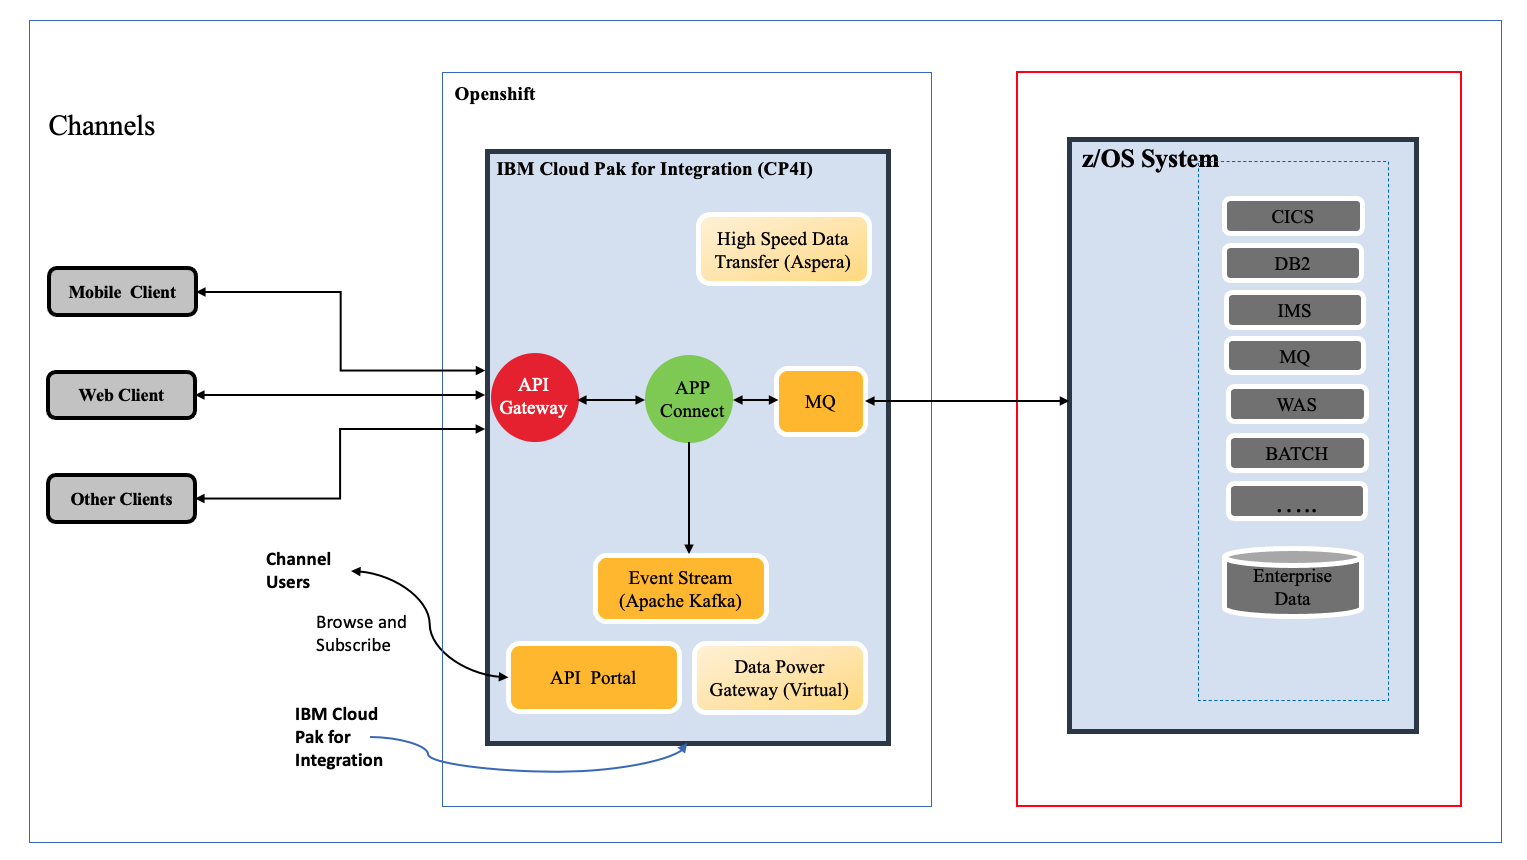
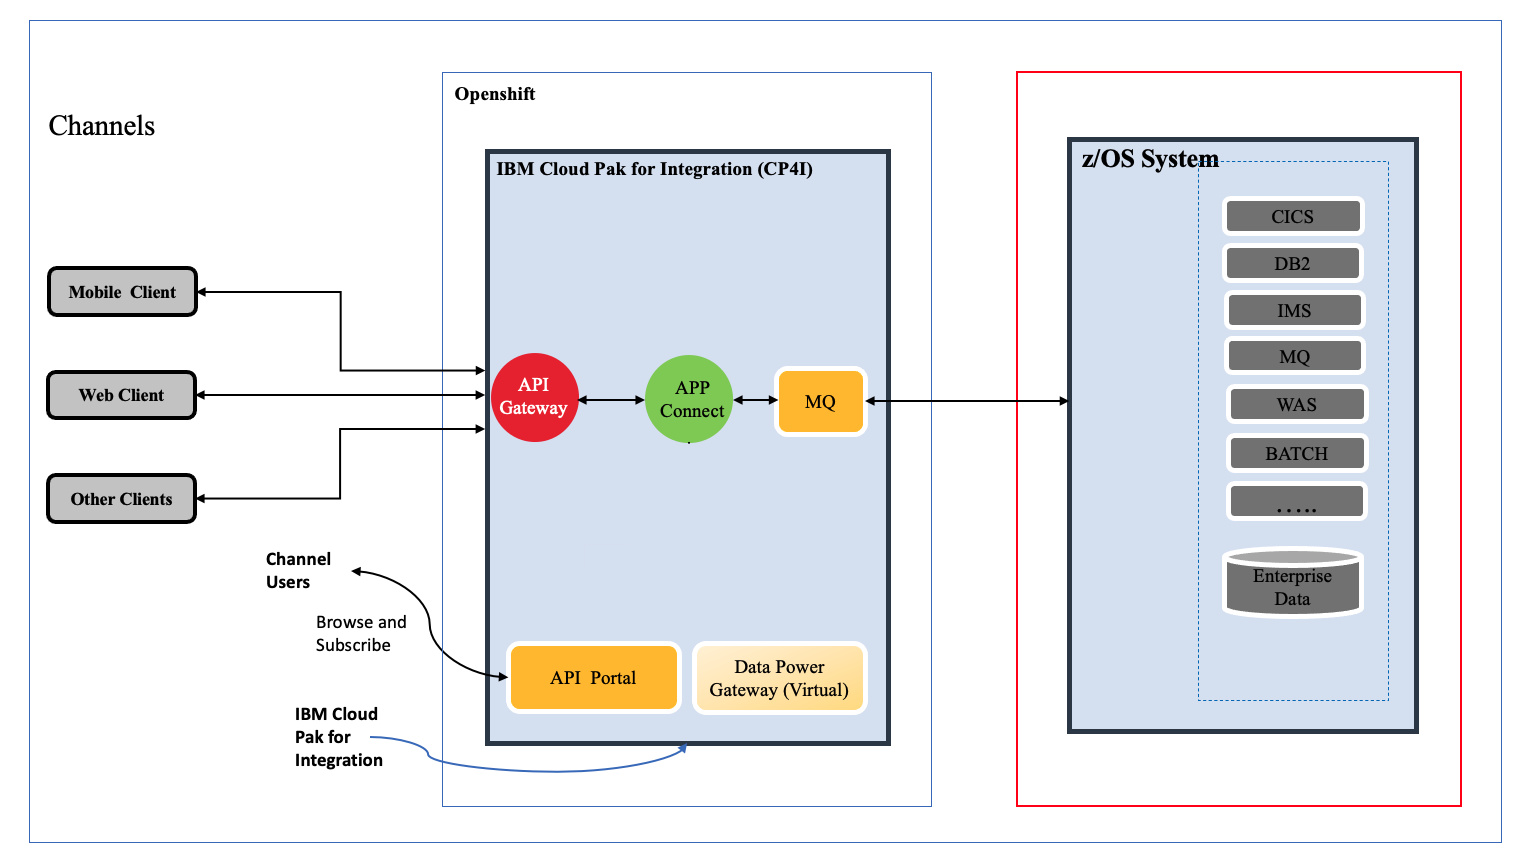
Updated Images and Instructions
Updated Images and Instructions

Changed region(s): [[0.4309, 0.2419, 0.5848, 0.3326], [0.3694, 0.6349, 0.5232, 0.7256]]

diff --git a/scenario2/Configuration/README.md b/scenario2/Configuration/README.md
@@ -111,6 +111,8 @@ Place downloaded oc binary file (oc or oc.exe )to the path in variable for your 
 
 https://docs.openshift.com/container-platform/4.10/cli_reference/openshift_cli/getting-started-cli.html 
 
+Alternate URL Reference: https://mirror.openshift.com/pub/openshift-v4/x86_64/clients/ocp/stable-4.10/
+
 <span id="_Toc105518923" class="anchor"></span>**Mailtrap SMTP Setup**
 
 Signup for a SMTP account on mailtrap.io. Once logged in, note down your
@@ -248,11 +250,13 @@ oc projects
 
 Run below command to switch to your project.
 
-oc project \<projectname\>
+oc project cp4i
 
 Run below command to see the pod name of the mq queue manager.
 
 oc get pods \| grep -i mq
+
+Note the MQ Queue Manager POD Name. eg. quickstart-cp4i-ibm-mq-0
 
 Run the sample given script to configure the mq security. Make sure that
 you have execution permission on the samples scripts loadmq.sh and
@@ -267,6 +271,12 @@ This script performs:
 -   Disable clientauth security
 
 -   Disable user security on MQ objects level
+
+The above command should succeed with below lines in the end.
+
+94 MQSC commands read.
+No commands have a syntax error.
+All valid MQSC commands were processed.
 
 <span id="_Toc105518928" class="anchor"></span>**Integration Dashboard**
 
@@ -331,7 +341,7 @@ Give it a name and select the specification as Swagger 2.0 Click Finish.
 <img src="./media/image35.png" style="width:6.26806in;height:3.23611in"
 alt="Graphical user interface, text, application Description automatically generated" />
 
-Open the REST API Description. Under Resources, Click on + icon to
+Open the REST API Description. In the right Pane, Under Resources, Click on + icon to
 create a resource.
 
 <img src="./media/image36.png" style="width:6.26806in;height:3.23611in"
@@ -352,7 +362,7 @@ Click on the subflow icon or this new resource.
 <img src="./media/image39.png" style="width:6.26806in;height:2.97986in"
 alt="Graphical user interface, application, Teams Description automatically generated" />
 
-New subflow editor will open. Drag the IBM MQ Connector from the
+New subflow editor will open. Drag the IBM MQ -> MQ Output Connector from the
 transformation section in the left toolbox.
 
 <img src="./media/image40.png" style="width:6.26806in;height:2.94306in"
@@ -430,19 +440,15 @@ Copy the bar file path or open it in finder window.
 <img src="./media/image54.png" style="width:5.90278in;height:3.95833in"
 alt="Graphical user interface, text, application, email Description automatically generated" />
 
-<span id="_Toc105518932" class="anchor"></span>**Deploy - Create a local
-integration server**
+<span id="_Toc105518932" class="anchor"></span>**Deploy - Create an integration server**
 
-Proceed further to create a Local Integration Server in ACE. You may do
-so by using the navigation -
-
-Right click on the Integration Servers --\> Select **Create a local
-Integration Server**
+Proceed further to create a Integration Server in CP4I Console. You may do
+so by using the navigation Manu - Integrations. Click on Deploy Integrations.
 
 <img src="./media/image55.png" style="width:6.26806in;height:3.67361in"
 alt="Graphical user interface, application Description automatically generated" />
 
-Click Create a Server and Chose a Quick Start Plan. Click Next.
+Click Deploy a Server and Chose a Quick Start Plan. Click Next.
 
 <img src="./media/image56.png" style="width:6.26806in;height:2.80347in"
 alt="Graphical user interface, text, application, Teams Description automatically generated" />
@@ -452,7 +458,7 @@ Drag and Drop the newly generated bar file here. Click Next.
 <img src="./media/image57.png" style="width:6.26806in;height:2.47778in"
 alt="Graphical user interface, application, Teams Description automatically generated" />
 
-Click Next.
+Skip any Configuration to be applied this integration. Just Click Next.
 
 <img src="./media/image58.png" style="width:6.26806in;height:2.39167in"
 alt="Graphical user interface, text, application, Teams Description automatically generated" />
@@ -517,32 +523,26 @@ Chose the basic one node plan. Click Next.
 <img src="./media/image69.png" style="width:6.26806in;height:4.07639in"
 alt="Graphical user interface, application, Word Description automatically generated" />
 
-Enter the API instance Name and accept the license. Enter the license
-ID.
+Enter the API instance Name and accept the license. Enter the license ID.
 
 <img src="./media/image70.png" style="width:6.26806in;height:4.07639in"
 alt="Graphical user interface, application Description automatically generated" />
 
-Optionally select the matching Storage Class. Click Finish.
+The matching Storage Class will be automatically selected. Click Finish.
 
-<img src="./media/image71.png"
-style="width:6.26806in;height:4.07639in" />
+<img src="./media/image71.png" style="width:6.26806in;height:4.07639in" />
 
-API Connect Instances will be created.
+The following API Connect Instances will be created in about 45 minutes.
 
 -   **API Managed Enterprise Gateway** is the data power gateway.
 
--   **API Management** is the instance where we can configure/Develop
-    new APIs Products and catalog. (API Manager).
+-   **API Management** is the instance where we can configure/Develop new APIs Products and catalog. (API Manager).
 
--   **API Management Administration** is where we can create
-    organization, configure authentication settings, SMTP settings etc .
+-   **API Management Administration** is where we can create organization, configure authentication settings, SMTP settings etc .
 
-<img src="./media/image72.png" style="width:6.26806in;height:2.44097in"
-alt="Graphical user interface, application Description automatically generated" />
+<img src="./media/image72.png" style="width:6.26806in;height:2.44097in" alt="Graphical user interface, application Description automatically generated" />
 
-<span id="_Toc105518934" class="anchor"></span>**Cloud Manager (API
-Management Administration)**
+<span id="_Toc105518934" class="anchor"></span>**Cloud Manager (API Management Administration)**
 
 #### Create Organization
 
@@ -575,13 +575,13 @@ alt="Graphical user interface, application Description automatically generated" 
 alt="Graphical user interface, application, Teams Description automatically generated" />
 
 #### Configure SMTP for notifications
-
-Click on Resource’s link in the left pane.
+ 
+Click on Resource’s link in the left pane. Click on Notification Link in the left pane.
 
 <img src="./media/image78.png" style="width:6.26806in;height:3.80417in"
 alt="Graphical user interface, application Description automatically generated" />
 
-Click on Notification Link.
+Click on Create button to create a new SMTP Server.
 
 <img src="./media/image79.png" style="width:6.26806in;height:1.80208in"
 alt="Graphical user interface Description automatically generated with medium confidence" />
@@ -598,7 +598,7 @@ and click Send Test Email.
 <img src="./media/image81.png" style="width:4.38889in;height:1.48611in"
 alt="Graphical user interface, application, Teams Description automatically generated" />
 
-The email should be sent successfully.
+The email should be sent successfully. You can verify this only through the mailtrap inbox. It will not land in the actual reciever inbox.
 
 <img src="./media/image82.png" style="width:4.36111in;height:1.45833in"
 alt="Graphical user interface, application, Teams Description automatically generated" />
@@ -651,7 +651,7 @@ encapsulate the API created on the ACE.
 <img src="./media/image89.png" style="width:6.26806in;height:1.47917in"
 alt="Graphical user interface, application Description automatically generated" />
 
-Lets chose the basic one (default) with no validation. Click Next.
+Chose the default option "From Target Service". Click Next.
 
 <img src="./media/image90.png" style="width:6.26806in;height:3.97292in"
 alt="Graphical user interface Description automatically generated with medium confidence" />
@@ -667,7 +667,7 @@ earlier.
 <img src="./media/image92.png" style="width:6.26806in;height:2.28194in"
 alt="Graphical user interface, application, Teams Description automatically generated" />
 
-<http://is-01-toolkit-http-cp4i-practicum-scenario2.cp4intpg-wdc04-mdh7qi-8946bbc006b7c6eb0829d088919818bb-0000.us-east.containers.appdomain.cloud/myequiry/v1/AccountEnquiry>
+example, <http://hostname/MyEquiry/v1/AccountEnquiry>
 
 Enter the title of the API. This will also create an endpoint / base
 path using which the API can be called and it will just redirect the
@@ -750,7 +750,7 @@ alt="Graphical user interface, text, application Description automatically gener
 
 #### Develop Product
 
-Go to Home again and develop API and Products.
+Go to API Manager Home again and click on "Develop API and Products".
 
 <img src="./media/image108.png" style="width:6.26806in;height:3.35208in"
 alt="Graphical user interface, application, website Description automatically generated" />
@@ -782,7 +782,7 @@ Select an API to be added into this product. Click Next.
 alt="Graphical user interface, application Description automatically generated" />
 
 Review the plan details. You can more plans by clicking on Add Button.
-Can define the new plan name and rate limit (eg. API Calls Frequency).
+Can define the new plan name and rate limit (eg. API Calls Frequency). You can add arbitary plans and API Calls Frequency.
 
 <img src="./media/image114.png" style="width:6.26806in;height:3.65in"
 alt="Graphical user interface, application, Teams Description automatically generated" />
@@ -807,13 +807,13 @@ New product is added with the new API.
 <img src="./media/image118.png" style="width:6.26806in;height:1.68611in"
 alt="Graphical user interface, application Description automatically generated" />
 
-Go to API Manager Manage Settings to update the email Notification
+Go to API Manager "Manage Settings" to update the email Notification
 settings.
 
 <img src="./media/image119.png" style="width:6.26806in;height:3.42431in"
 alt="Graphical user interface, application Description automatically generated" />
 
-Go to Notifications.
+Go to "Notifications". Click Edit.
 
 <img src="./media/image120.png" style="width:6.26806in;height:1.81042in"
 alt="Graphical user interface, application, Teams Description automatically generated" />
@@ -856,16 +856,16 @@ alt="Graphical user interface, text, application Description automatically gener
 <img src="./media/image127.png" style="width:6.26806in;height:2.99097in"
 alt="Graphical user interface, text, application, email Description automatically generated" />
 
-Create a developer portal here.
-
-<img src="./media/image128.png" style="width:6.26806in;height:2.99097in"
-alt="Graphical user interface, application, website Description automatically generated" />
-
-Click Create. If the email if is not updated for the logged in user
+Create a developer portal here. Click Create. If the email if is not updated for the logged in user
 account, then there will be an error mentioning so. Update the admin
 user email id from Cloud Manager -\> My Account as explained earlier.
 Also make sure smtp settings are correct under Cloud Manager
 notification settings.
+
+<img src="./media/image128.png" style="width:6.26806in;height:2.99097in"
+alt="Graphical user interface, application, website Description automatically generated" />
+
+Select the portal service as "portal-service" and Click Create. 
 
 <img src="./media/image129.png" style="width:6.26806in;height:2.39097in"
 alt="Graphical user interface, text, application, email Description automatically generated" />
@@ -877,29 +877,33 @@ account.
 <img src="./media/image130.png" style="width:6.26806in;height:2.53403in"
 alt="Graphical user interface, text, application Description automatically generated" />
 
-#### Publish Product
+Note down the Portal API URL from **Catalog Settings -\> Portal** . eg.
 
-Now lets publish the product to the new catalog from API Manager first.
-So it can be visible in this catalog.
-
-<img src="./media/image131.png" style="width:6.26806in;height:2.43472in"
-alt="Graphical user interface, application Description automatically generated" />
-
-Select the new catalog. You can set the catalog visibility to
-Authenticated users. Click Publish. It will be published shortly.
-
-<img src="./media/image132.png" style="width:6.26806in;height:3.93889in"
-alt="Graphical user interface, application, Teams Description automatically generated" />
-
-#### API Connect Developer Portal
+<https://hostname/api-organization/practicum-catalog>
 
 (optional) Once you receive the email to set the password click on that
 link and set the password for the admin account for API Manager.
 
-Note down the Portal API URL from **Catalog Settings -\> Portal** and
-open it in Mozilla Browser. Eg.
+#### Publish Product
 
-<https://apis-minim-27578f6b-portal-web-cp4i-practicum-scenario2.cp4intpg-wdc04-mdh7qi-8946bbc006b7c6eb0829d088919818bb-0000.us-east.containers.appdomain.cloud/api-org-3/practicum-catalog>
+In the original API Manager Window, Now lets publish the product to the new catalog from API Manager first. So it can be visible in this catalog.
+
+Go to API Manager Home and click Develop APIs and Products. Go to Products Tab. Select the product settings and click Publish.
+
+<img src="./media/image131.png" style="width:6.26806in;height:2.43472in"
+alt="Graphical user interface, application Description automatically generated" />
+
+Select the new catalog.Click Next. 
+
+<img src="./media/image132.png" style="width:6.26806in;height:3.93889in"
+alt="Graphical user interface, application, Teams Description automatically generated" />
+
+ You can set the catalog visibility to
+Authenticated users. Click Publish. It will be published shortly.
+
+#### API Connect Developer Portal
+
+Open the Portal API URL as noted above in the browser.
 
 **Note:** Use **Mozilla Browser** only for this as there will be issues
 with chrome browser with default self-signed certificate settings and
@@ -1002,8 +1006,11 @@ using any other browser than Firefox. Or the Certificate is not trusted.
 <img src="./media/image149.png" style="width:6.26806in;height:2.60694in"
 alt="Graphical user interface, text, application Description automatically generated" />
 
-Open this URL in the error below in the browser and accept the
-certificate. Ignore the error.
+Open this URL in the error below in the browser. eg.
+
+https://hostname/api-organization/practicum-catalog/my-account-api/
+
+Accept the certificate. Ignore the error. 
 
 <img src="./media/image150.png"
 style="width:6.26806in;height:0.29722in" />

diff --git a/scenario2/Architecture/README.md b/scenario2/Architecture/README.md
@@ -29,14 +29,6 @@ IBM Cloud Pak for Integration includes a market-leading application integration 
 
 Powerful underlying capabilities facilitate the implementation of even the most complex integration patterns. As a result, data can be moved quickly, accurately and robustly.
 
-### IBM Event Streams
-
-IBM Cloud Pak for Integration includes Event Streams, that helps to deliver more engaging customer experiences.
-
-Built on open source Apache Kafka, IBM® Event Streams is an event-streaming platform that helps you build smart apps that can react to events as they happen. 
-
-Event Streams is based on years of IBM operational expertise gained from running Apache Kafka event streams for enterprises. This makes Event Streams ideal for mission-critical workloads.
-
 ### IBM API Connect
 
 IBM Cloud Pak for Integration includes API Connect as an integrated API management offering, where all of the steps in the API lifecycle, and the actions that surround it, are performed within the offering.
